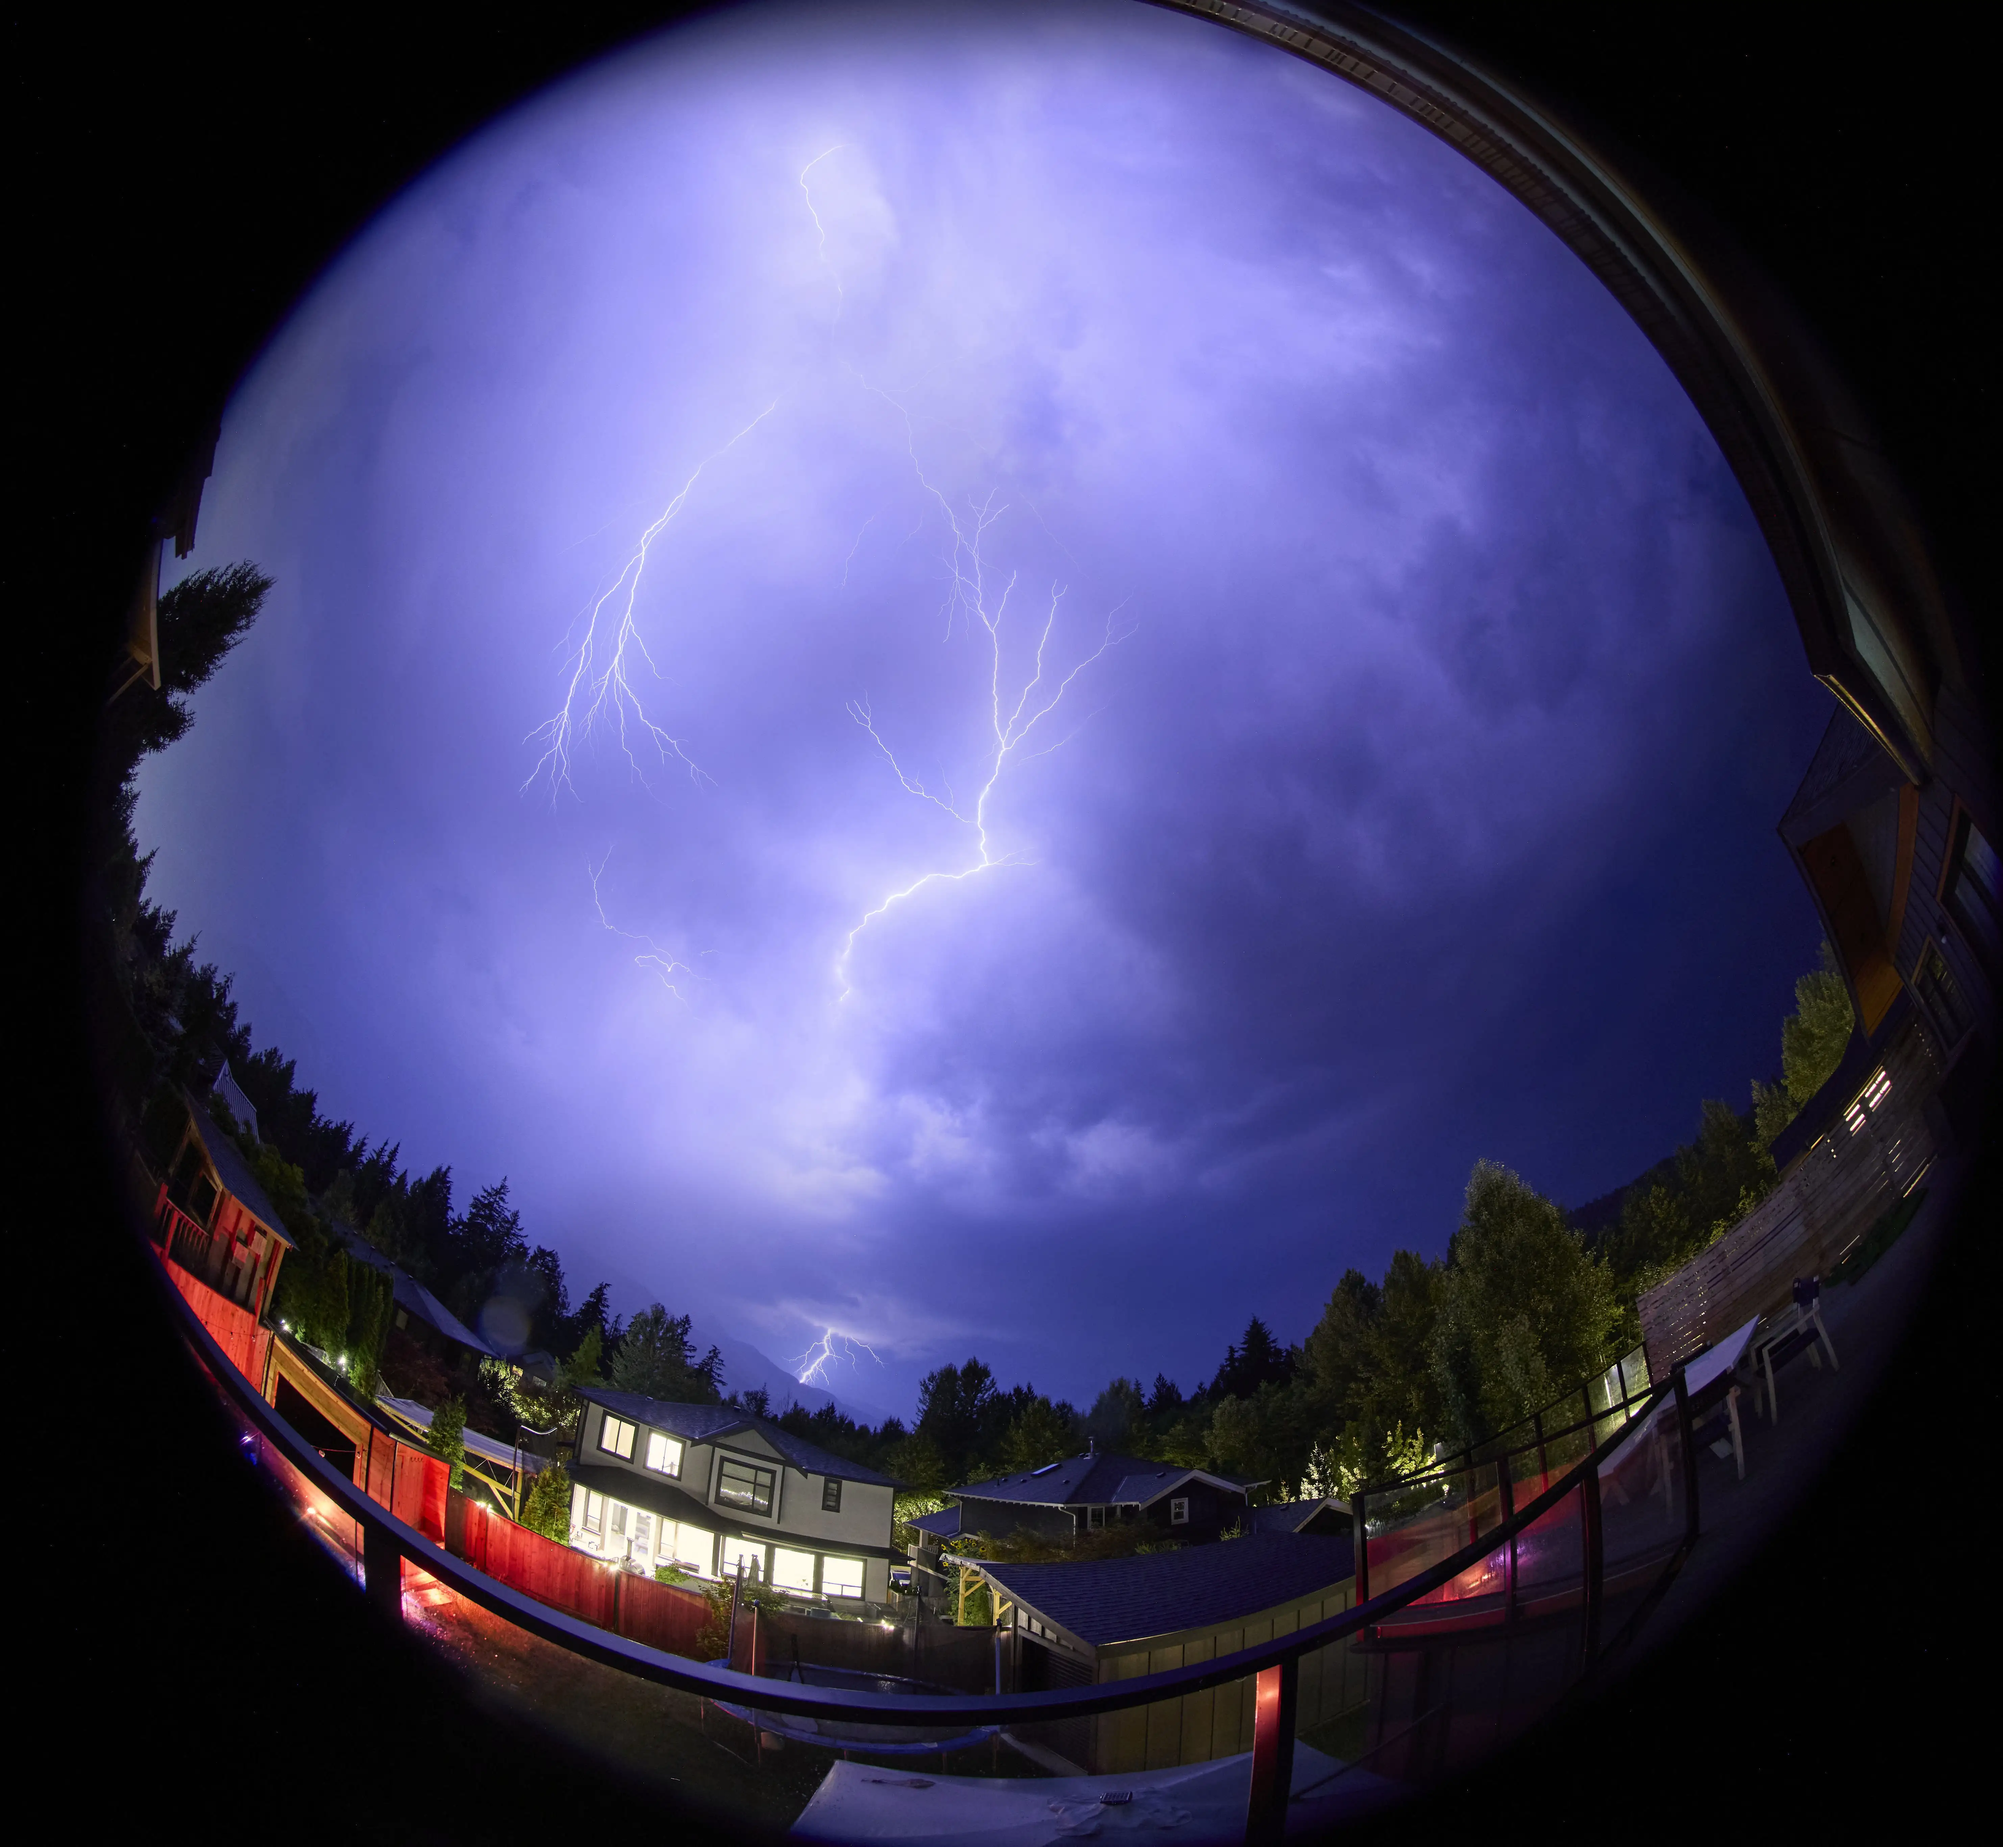
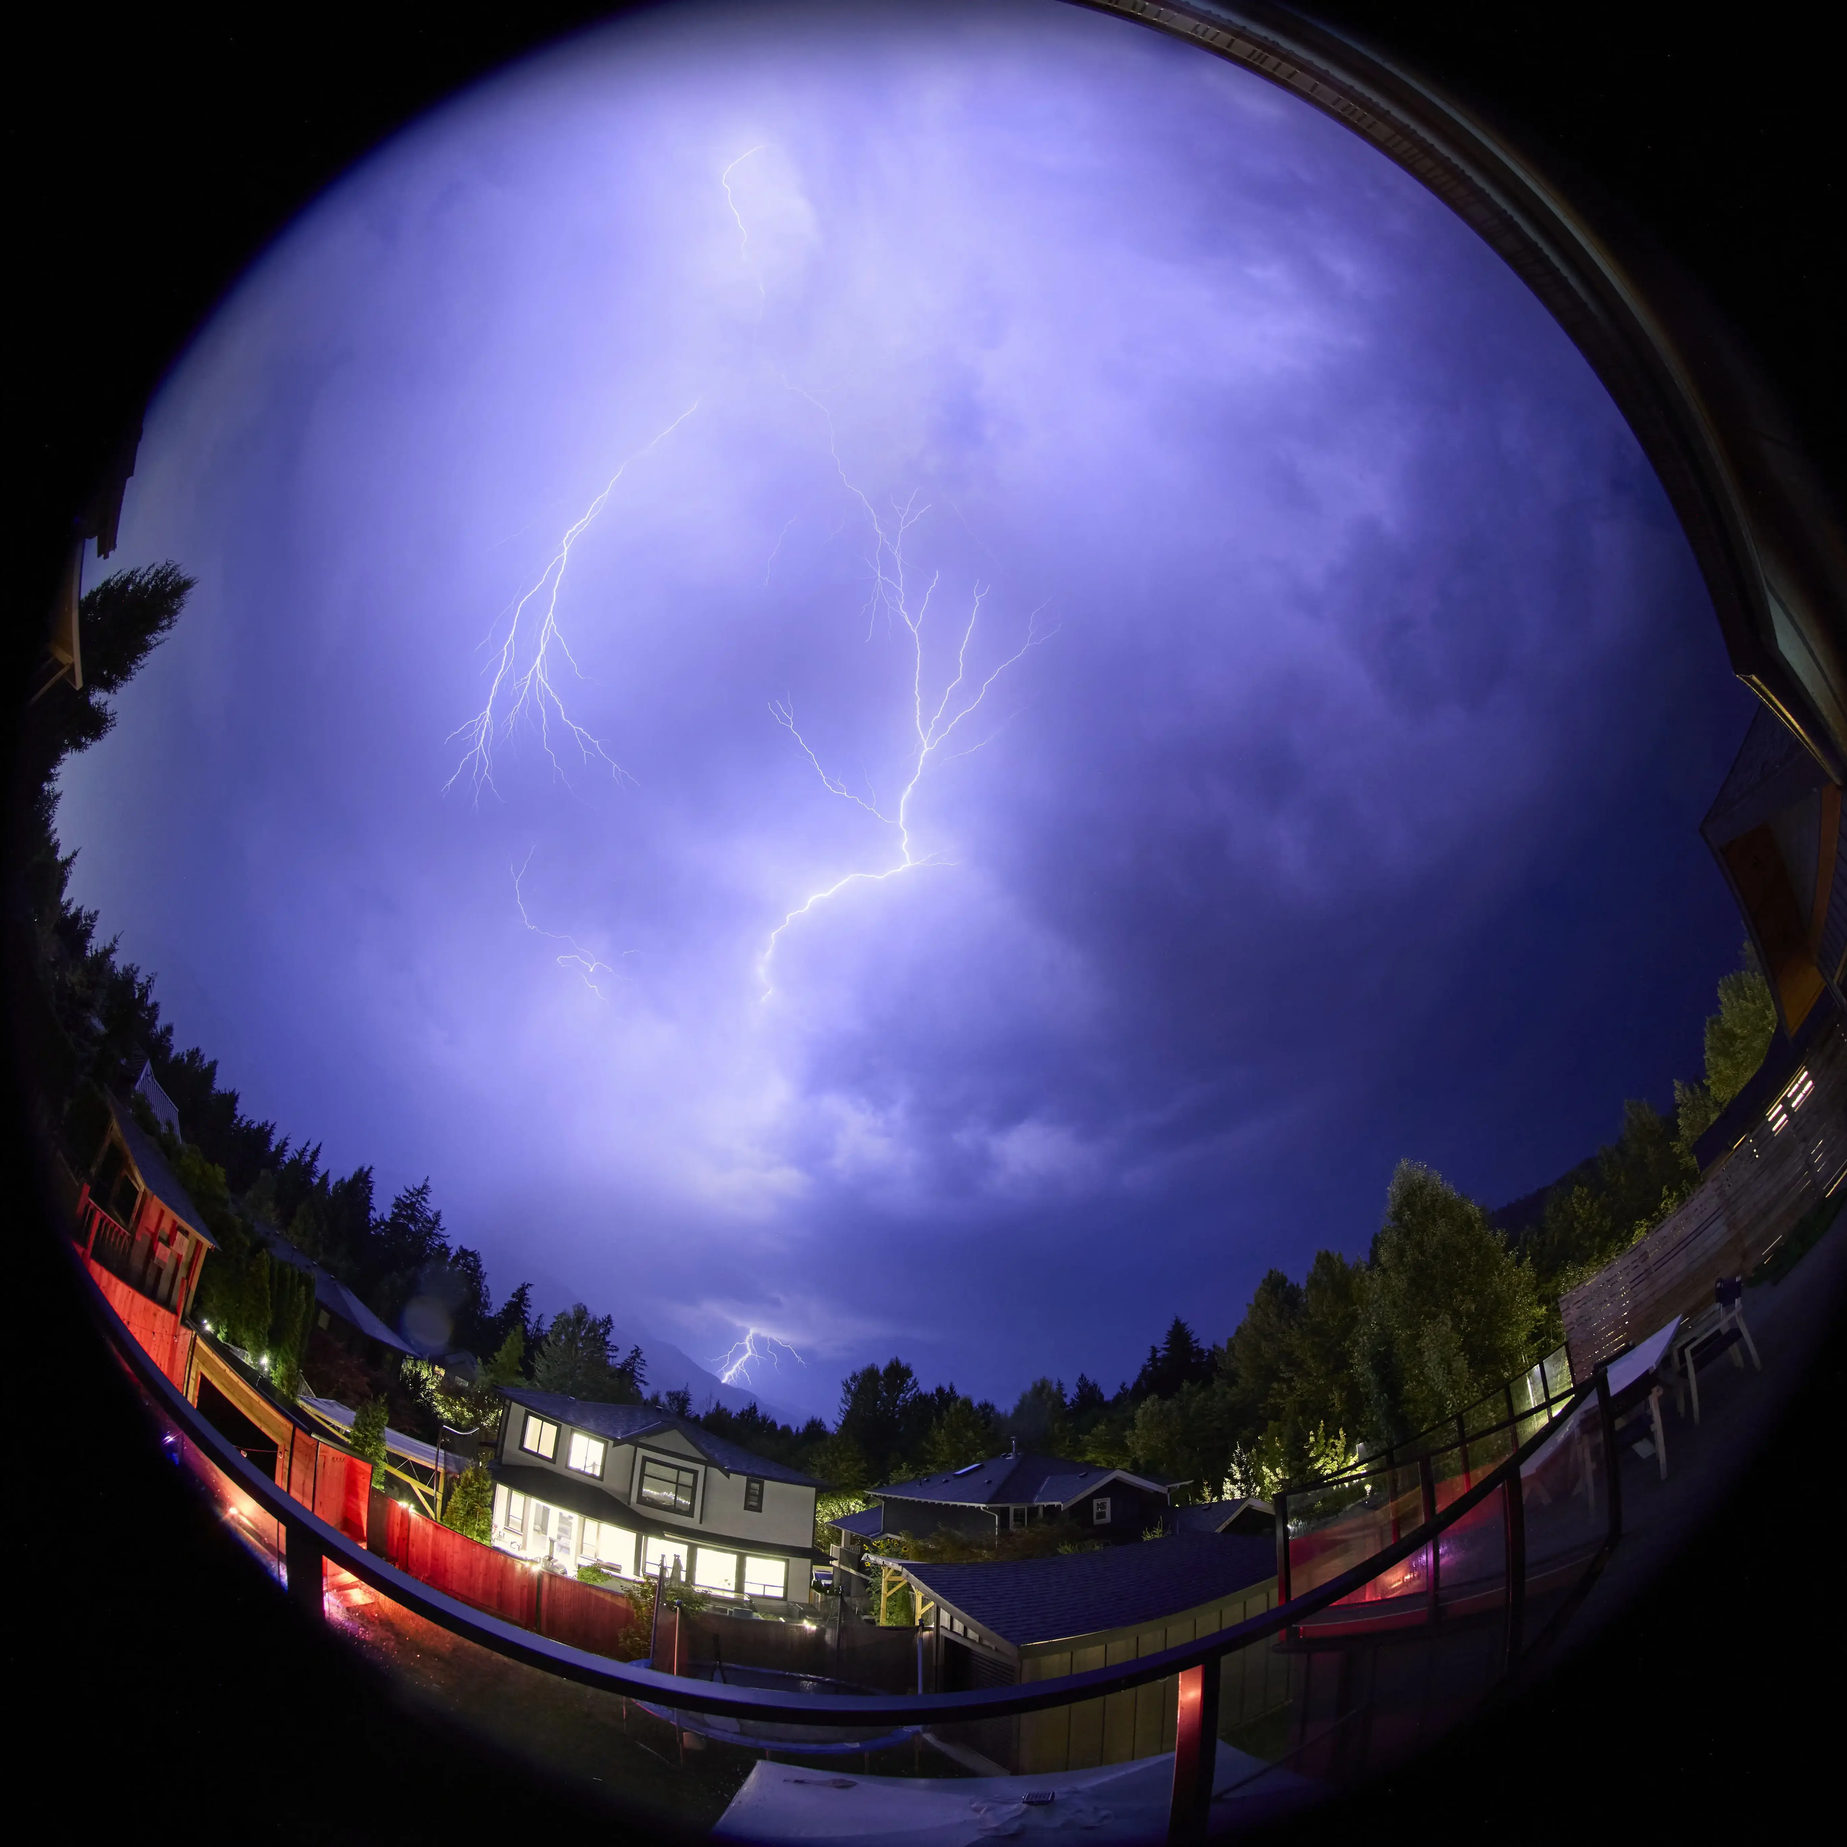
added related posts to posts pages

Changed region(s): [[0.0, 0.0, 1.0, 0.9956], [0.2489, 0.3111, 0.3111, 0.4356], [0.7156, 0.3422, 0.7467, 0.3734]]

diff --git a/eleventy.config.js b/eleventy.config.js
@@ -787,6 +787,38 @@ export default function (eleventyConfig) {
       .map(r => r.item);
   });
 
+  eleventyConfig.addFilter("relatedPosts", (collection, currentUrl, tags) => {
+    if (!collection?.length || !tags?.length) return [];
+
+    const pageTags = Array.from(tags).map(t => String(t).toLowerCase().trim());
+
+    // Count how often each tag appears so common tags score less
+    const freq = {};
+    collection.forEach(i => {
+      (i.data.tags || []).forEach(t => {
+        const k = String(t).toLowerCase().trim();
+        freq[k] = (freq[k] || 0) + 1;
+      });
+    });
+
+    return collection
+      .filter(i => {
+        if (i.url === currentUrl) return false;
+        const itemTags = (i.data.tags || []).map(t => String(t).toLowerCase().trim());
+        return itemTags.some(t => pageTags.includes(t));
+      })
+      .map(i => {
+        const itemTags = (i.data.tags || []).map(t => String(t).toLowerCase().trim());
+        const score = itemTags
+          .filter(t => pageTags.includes(t))
+          .reduce((sum, t) => sum + 1 / (freq[t] || 1), 0);
+        return { item: i, score };
+      })
+      .sort((a, b) => b.score - a.score)
+      .slice(0, 3)
+      .map(r => r.item);
+  });
+
   eleventyConfig.addCollection("currentProject", (api) =>
     api.getAll()
       .filter((i) => i.data.current_project === true)

diff --git a/3.0 - 📷 Photography/3.1 - 🏞 Galleries/3.1.4 - 🚀 Other/3.1.4.3 - Astrophotography.md b/3.0 - 📷 Photography/3.1 - 🏞 Galleries/3.1.4 - 🚀 Other/3.1.4.3 - Astrophotography.md
@@ -17,7 +17,7 @@ tags:
 heroImage: /static/images/Jzcv1Jl.webp
 header-image: /static/images/Jzcv1Jl.webp
 Published: 17/04/2024
-ethics: Astrophotography is generally well within the realm of ethical safety. My photographs are all taken from land which I had permission to be on (my own and friends), and often required me to leave the camera taking photographs while I slept.
+ethics: Astrophotography is generally well within the realm of ethical safety. My photographs are all taken from land which I had permission to be on, and often required me to leave the camera taking photographs while I slept.
 location: |-
   - Yorkshire, England
   - London, England

diff --git a/1.0 - Main Pages/1.8 - Walks & Workshops.md b/1.0 - Main Pages/1.8 - Walks & Workshops.md
@@ -2,7 +2,7 @@
 title: Guided Walks & Photo Workshops
 layout: experiences.njk
 publish: true
-permalink: /guides
+permalink: /walks-and-workshops
 description: Guided wildlife walks and photography workshops in Squamish, BC. Explore the Skwelwil'em Estuary, watch bald eagles, and learn nature photography with local photographer Niall Bell.
 heroImage: /static/images/xn7lE7w.webp
 testimonials: false
